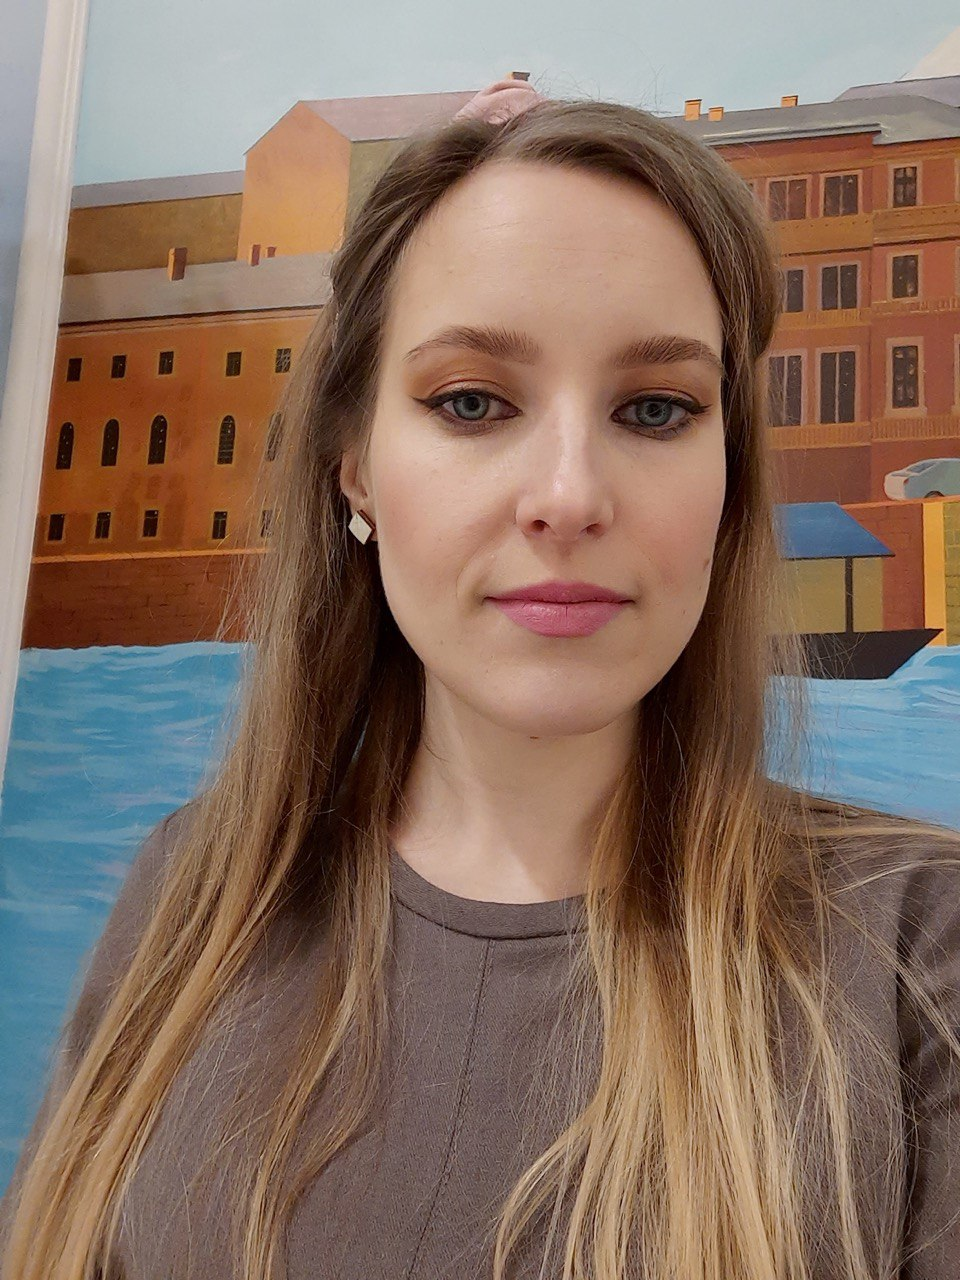
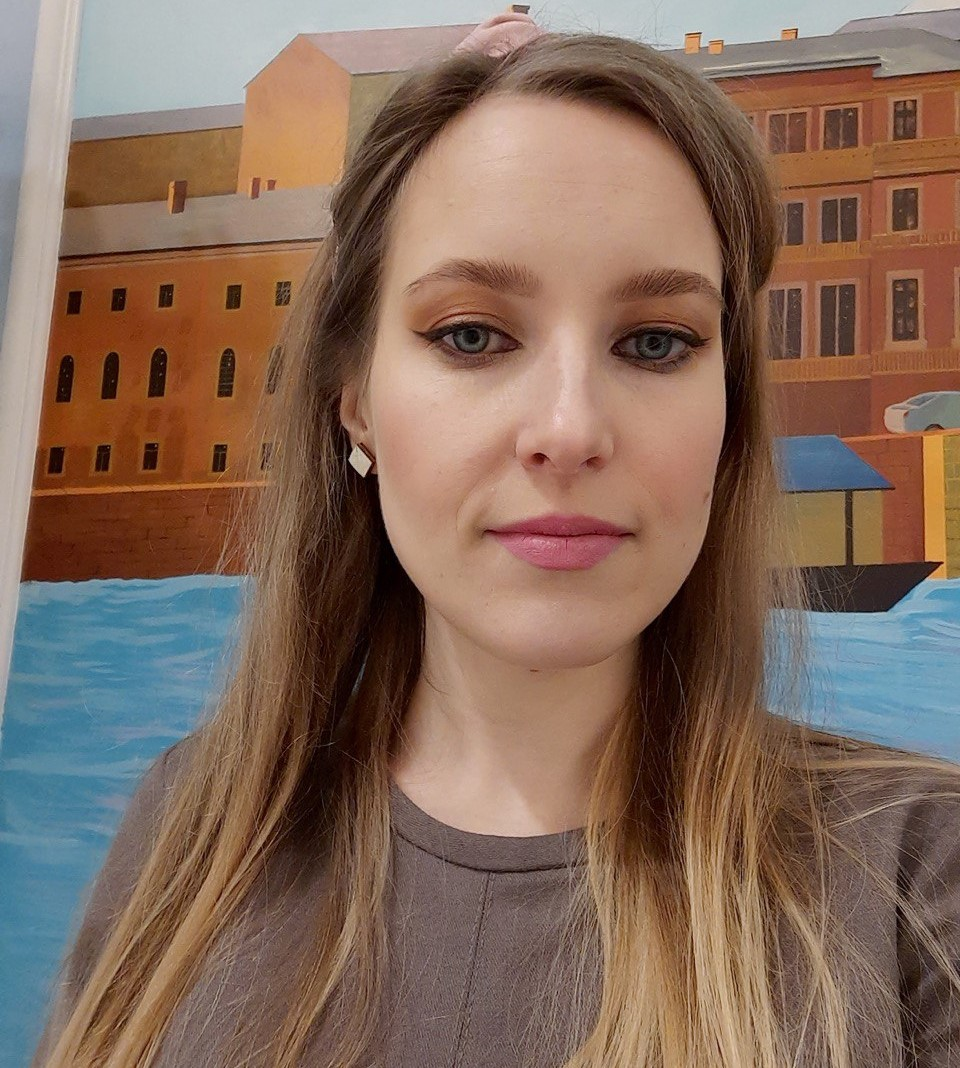
feat: add profile and info about me

diff --git a/index.html b/index.html
@@ -27,10 +27,73 @@
 <main class="main">
   <div class="container">
     <section class="section" id="profile">
-      
+      <div class="main-header">
+        <div class="header-name">
+      <h1 class="section-title">Elena Sukhina</h1>
+      <p class="profile-text">Junior Front-end Developer</p>
+      <ul class="contacts">
+        <li class="contacts-item">
+          <a href="">
+            <svg width="49" height="43" enable-background="new 0 0 512 512" id="Layer_1" version="1.1" viewBox="0 0 512 512" xml:space="preserve" xmlns="http://www.w3.org/2000/svg" xmlns:xlink="http://www.w3.org/1999/xlink"><g><path d="M505,257c0,34.8-0.7,69.7,0.2,104.5c1.5,61.6-37.2,109.2-86.5,130.4c-19.8,8.5-40.6,13-62.1,13c-67.3,0.1-134.7,1-202-0.3   c-50.7-1-92.4-22.2-122.3-64c-15.7-22-23.2-47-23.2-74.1c0-71.7,0-143.3,0-215c0-58.5,28.5-99.4,79.1-126C110.2,14,134.1,9.1,159,9   c65.3,0,130.7-0.4,196,0.2c50.7,0.4,93,19.8,124.2,60.6c17.4,22.8,25.8,49,25.8,77.8C505,184,505,220.5,505,257z M46,257   c0,36.7,0,73.3,0,110c0,16.4,3.8,31.8,12.3,45.7c22.3,36.5,56,54.3,97.8,55c67.1,1,134.3,0.4,201.5,0.2c16.5,0,32.5-3.4,47.4-10.5   c40.6-19.4,63.3-50.3,63.1-96.7c-0.4-71-0.1-142-0.1-213c0-20.1-5.7-38.5-17.6-54.7c-23-31.1-54.8-46.4-92.8-46.8   c-67-0.8-134-0.3-201-0.2c-14.3,0-28.1,2.9-41.5,7.9c-36.8,13.7-71,48.4-69.4,99.5C46.9,188,46,222.5,46,257z"/><path d="M257.6,363c-64.5,0-116.5-51.4-116.6-115.4c-0.1-63,52.3-114.6,116.4-114.6c64.3-0.1,116.5,51.4,116.6,114.9   C374,311.3,321.9,362.9,257.6,363z M257.6,326c43.9,0,79.5-35.1,79.4-78.3c-0.1-42.8-35.7-77.8-79.4-77.8   c-43.9,0-79.7,34.9-79.7,78C178,291.1,213.7,326.1,257.6,326z"/><path d="M387.5,98c13.5,0,24.5,11.5,24.5,25.6c-0.1,14.1-11.2,25.5-24.7,25.4c-13.3-0.1-24.2-11.5-24.2-25.3   C363,109.6,374,98,387.5,98z"/></g></svg>
+          </a>
+        </li>
+        <li class="contacts-item">
+          <a href="">
+          <svg width="49" height="43" id="Flat" xmlns="http://www.w3.org/2000/svg" viewBox="0 0 256 256">
+          <path d="M228.646,34.7676a11.96514,11.96514,0,0,0-12.21778-2.0752L31.87109,105.19729a11.99915,11.99915,0,0,0,2.03467,22.93457L84,138.15139v61.833a11.8137,11.8137,0,0,0,7.40771,11.08593,12.17148,12.17148,0,0,0,4.66846.94434,11.83219,11.83219,0,0,0,8.40918-3.5459l28.59619-28.59619L175.2749,217.003a11.89844,11.89844,0,0,0,7.88819,3.00195,12.112,12.112,0,0,0,3.72265-.59082,11.89762,11.89762,0,0,0,8.01319-8.73925L232.5127,46.542A11.97177,11.97177,0,0,0,228.646,34.7676ZM32.2749,116.71877a3.86572,3.86572,0,0,1,2.522-4.07617L203.97217,46.18044,87.07227,130.60769,35.47461,120.28811A3.86618,3.86618,0,0,1,32.2749,116.71877Zm66.55322,86.09375A3.99976,3.99976,0,0,1,92,199.9844V143.72048l35.064,30.85669ZM224.71484,44.7549,187.10107,208.88772a4.0003,4.0003,0,0,1-6.5415,2.10937l-86.1543-75.8164,129.66309-93.645A3.80732,3.80732,0,0,1,224.71484,44.7549Z"/>
+          </svg>
+          </a>
+        </li>
+        <li class="contacts-item">
+          <a href="">
+            <svg width="49" height="43" enable-background="new 0 0 512 512" id="Layer_1" version="1.1" viewBox="0 0 512 512" xml:space="preserve" xmlns="http://www.w3.org/2000/svg" xmlns:xlink="http://www.w3.org/1999/xlink"><g><path d="M258.6,507.2C120.3,507.7,6.5,392.6,9.9,251.7C13.1,117.8,124.1,7.1,262.1,8.7c136.7,1.6,249.5,115.4,246,255.8   C504.8,398,394.7,508,258.6,507.2z M230,387.7c-12.2-3.9-24.6-6.8-36-11.9c-23.2-10.4-37.9-28.4-42.6-53.7   c-3-16.4-1.8-32.9,0.2-49.3c1.8-14.5,6-28,17-38.5c0.8-0.8,0.9-3.1,0.4-4.3c-5.3-14.5-4.7-29-0.4-43.7c1.3-4.4,3.4-4.9,7.2-3.7   c10,3.1,18.1,9.1,25,16.7c3.7,4,7,8.4,10.5,12.6c20.8-13.5,80.3-13.5,102.1-0.2c4.2-4.9,8.2-10,12.7-14.7   c6.7-6.9,14.5-12.2,24-14.8c3.1-0.9,4.8-0.2,5.9,3.1c4.9,14.5,5.8,29,0,43.5c-1.1,2.9-1,4.8,1.3,7c6.9,6.6,11.1,14.9,13.3,24.2   c4.2,17.3,5.1,35,3.9,52.6c-1.3,18.9-8.4,35.5-22.3,48.8c-11.7,11.1-25.7,17.7-41.1,21.6c-5.6,1.4-11.2,2.4-17.2,3.6   c7.7,11.8,9.6,24.6,9.3,38c-0.3,14.3-0.1,28.7-0.1,43c0,1.7,0.1,3.5,0.2,5.3c91.3-16.6,183.5-107.5,173.4-233.4   C467.2,119.4,360.9,27.2,237.9,39C123,50,30.8,152.5,41.2,276.7c9.9,117.5,105.1,187.9,179.6,197.1c0-8.5,0-17,0-25.6   c-4.1,0.6-7.8,1.1-11.4,1.5c-26.8,3-48.1-9-60-32.9c-6.5-13.1-13.4-26.2-26.2-34.6c-1.4-0.9-2.2-2.6-3.4-4.1   c1.1-0.8,1.6-1.2,2.2-1.5c0.8-0.3,1.6-0.4,2.4-0.5c9-0.6,17.5,1,24.2,7.3c4.4,4.1,8.4,9,11.7,14.1c12.6,19.7,34.3,28,56.4,21.4   c3-0.9,4.7-2.2,5-5.7C222.3,403.8,224.9,394.9,230,387.7z"/></g></svg>
+          </a>
+        </li>
+      </ul>
+    </div>
+      <img src="assets/img/myfoto.jpg" class="profile-img" width="450" alt="myphoto">
+      </div>
     </section>
-
   </div>
+  <section class="section" id="summary">
+    <div class="container">
+    <h2 class="title">About me</h2>
+    <p class="summary-text">Hi! I'm 29 years old,from Saint-Petersburg. Start learning JavaScript/Front-end in RS School and want to get a new profession</p>
+    </div>  
+  </section>
+  <section class="section" id="skills">
+    <div class="container">
+      <h2 class="title">Skills</h2>
+      <ul class="skills-list">
+        <li class="skills-items">HTML/CSS</li>
+        <li class="skills-items">Bootstrap</li>
+        <li class="skills-items">GitHub</li>
+        <li class="skills-items">JS entry level</li>
+        <li class="skills-items">Figma</li>
+        <li class="skills-items">Sass</li>
+      </ul>
+    </div>
+  </section>
+  <section class="section" id="code">
+    <div class="container">
+      <h2>Code</h2>
+    <pre>
+      <code>function findMissing(arr1, arr2) {
+        arr1.sort(function(a, b) {
+        return a - b;
+      });
+        arr2.sort(function(a, b) {
+        return a - b;
+      });
+        for (let i = 0; i < arr1.length; i++){
+          if(arr1[i] !== arr2[i]) return arr1[i];
+        }
+      }</code>
+      </pre>
+    </div>
+  </section>
+
+
 </main>
 <footer class="footer">
   <div class="container">

diff --git a/css/style.css b/css/style.css
@@ -2,6 +2,10 @@
   box-sizing: border-box;
 }
 
+html {
+  scroll-behavior: smooth; 
+}
+
 body {
   margin: 0;
   padding: 0;
@@ -40,6 +44,7 @@ body {
   max-height: 100px;
   background: rgb(19,34,55);
   background: linear-gradient(90deg, rgba(19,34,55,1) 0%, rgba(2,18,153,0.17457405325411413) 100%);
+  margin-bottom: 50px;
 }
 
 .nav-list {
@@ -56,6 +61,54 @@ body {
   font-size: 22px;
   font-weight: 700;
 }
+
+.main-header {
+  padding-top: 40px;
+  display: flex;
+  justify-content: space-around;
+  align-items: center;
+}
+
+#profile {
+  /* display: flex; */
+  background: rgb(19,34,55);
+background: linear-gradient(90deg, rgba(19,34,55,1) 0%, rgba(52,59,118,0.11294940339417014) 55%);
+}
+
+.section-title {
+  font-size: 80px;
+  font-weight: 700;
+  font-style: italic;
+}
+
+.profile-text {
+  margin: 0;
+  font-size: 30px;
+  margin-bottom: 40px;
+}
+
+.profile-img {
+  border-radius: 50%;
+  margin-bottom: 40px;
+}
+
+.contacts {
+  padding: 0;
+  display: flex;
+  list-style: none;
+  margin: 0 auto;
+}
+
+.contacts-item:not(:last-child){
+  margin-right: 40px;
+}
+
+pre {
+  text-align: center;
+  background: lightslategrey;
+  font-size: 20px;
+}
+
 
 
 
